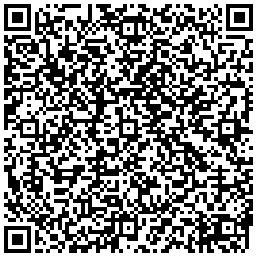
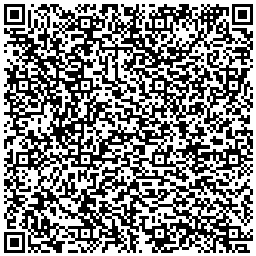
fix

diff --git a/index.js b/index.js
@@ -22,8 +22,8 @@ fs.readdir('.', { withFileTypes: true }, (err, files) => {
     for (const key in directories) {
         const element = directories[key];
         const data = require(element)
-       
-        QRCode.toFile(path.join(path.dirname(element), 'qrcode.png'), JSON.stringify(data), {
+        const url = `https://share.dagouzhi.com/#/pages/index/index?data=${encodeURIComponent(JSON.stringify(data))}`
+        QRCode.toFile(path.join(path.dirname(element), 'qrcode.png'), url, {
             margin: 1,
             width: 256,
             color: {
